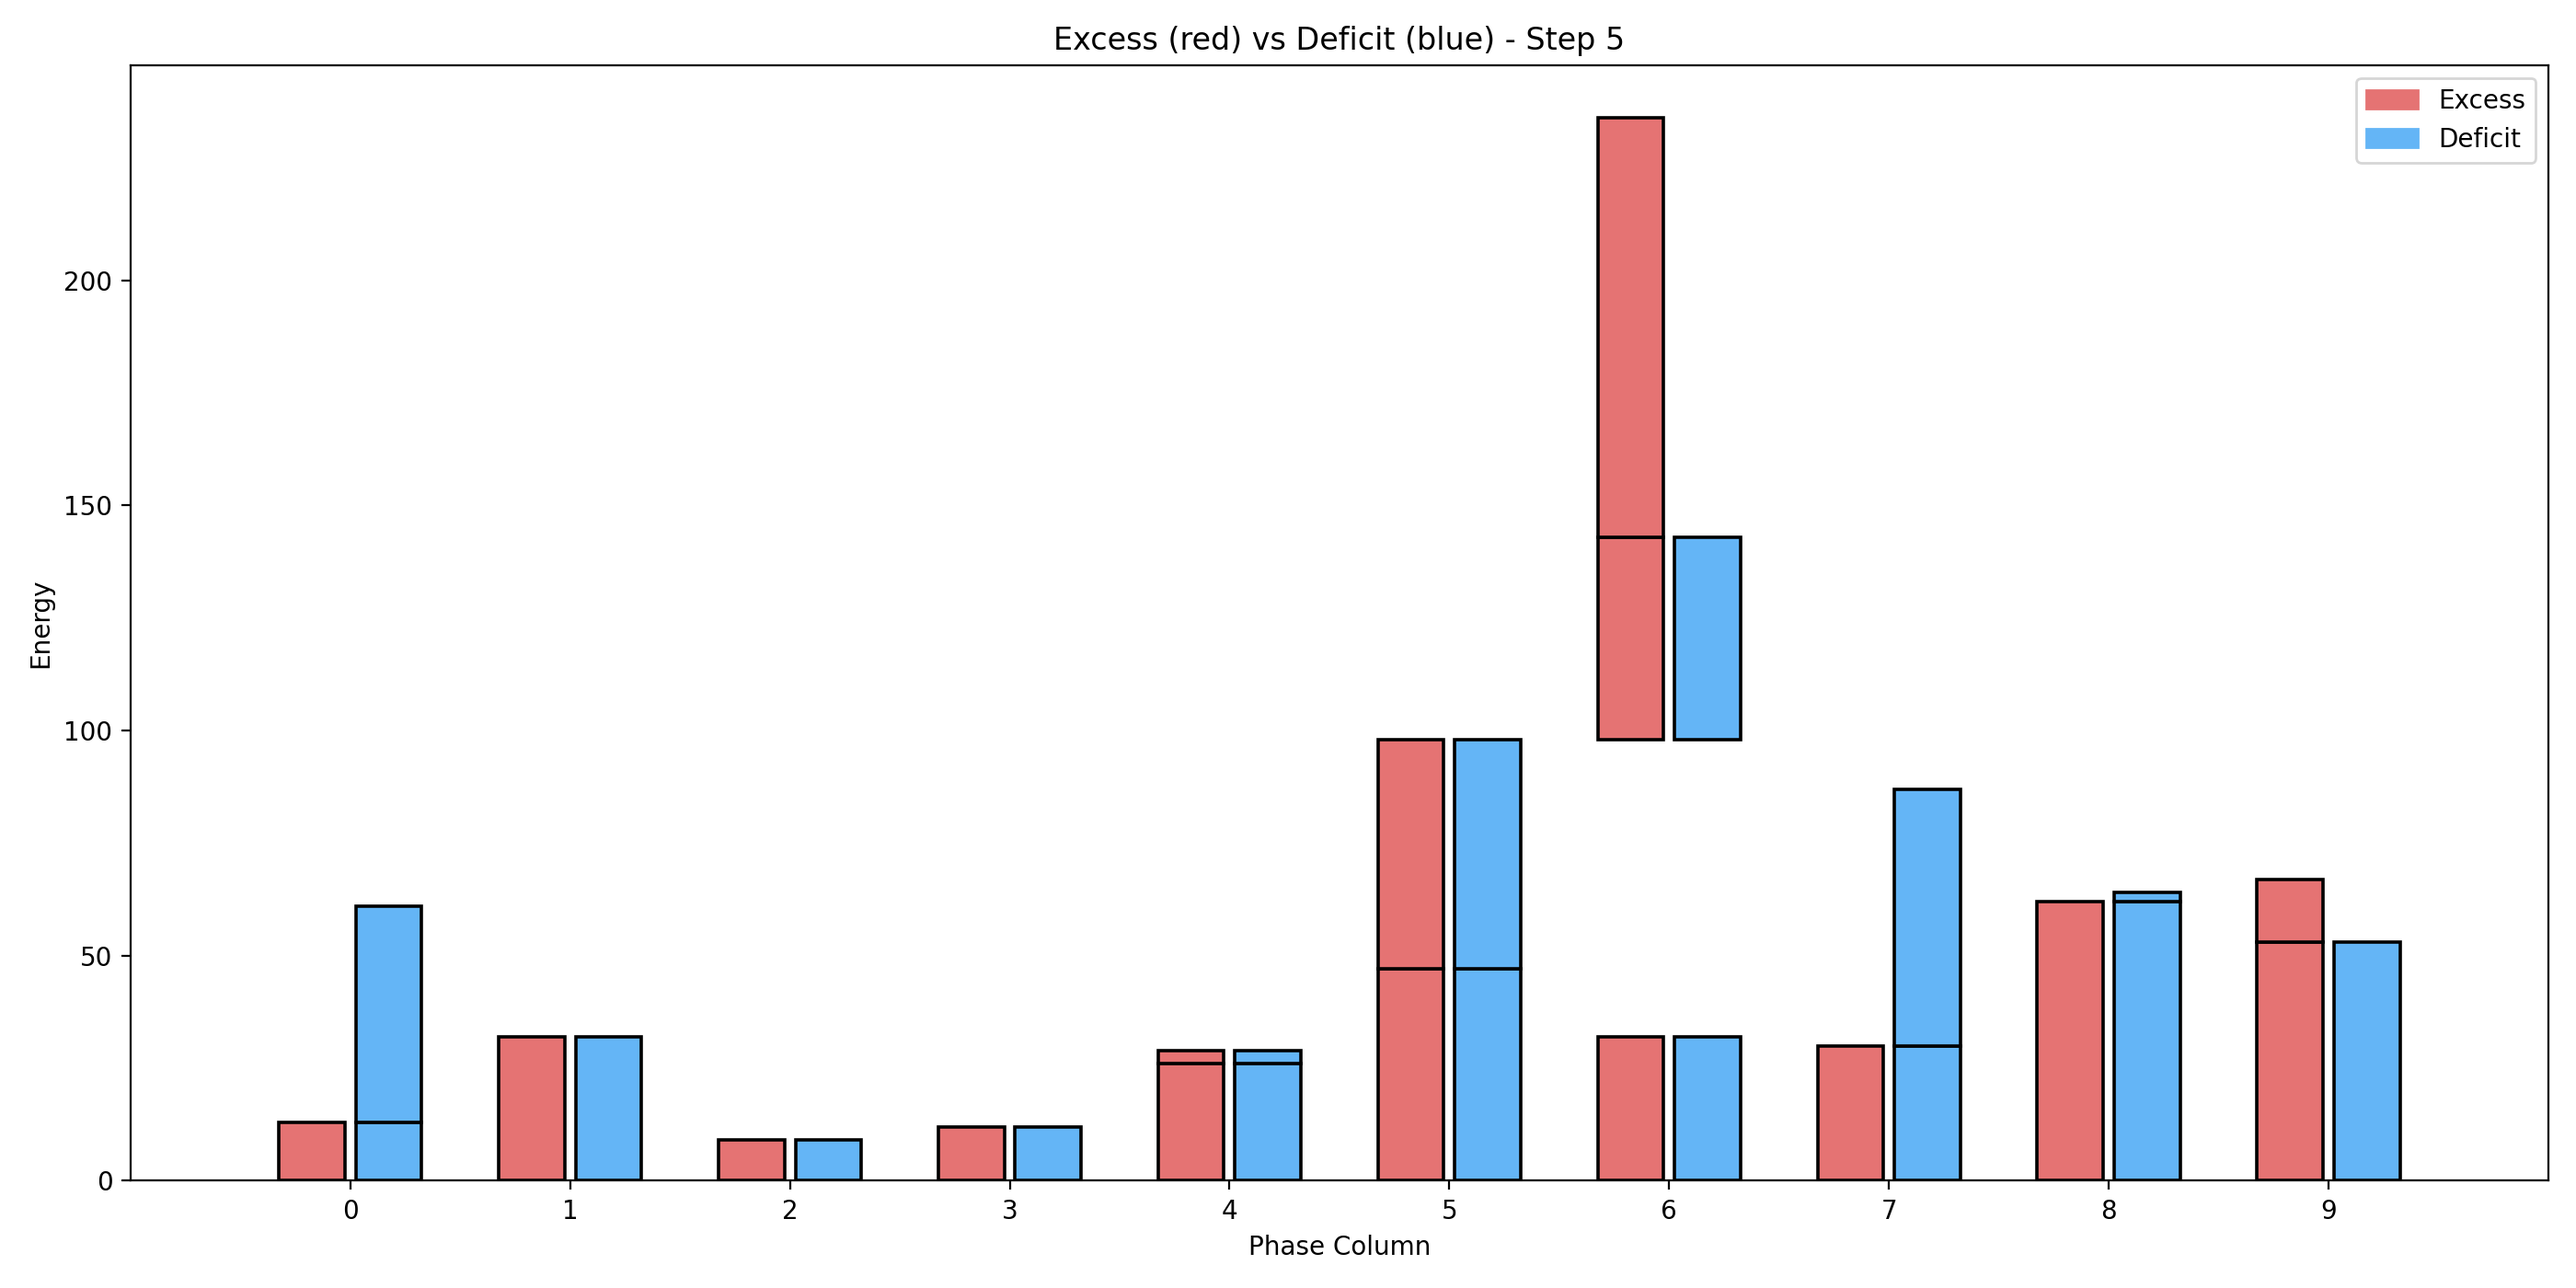
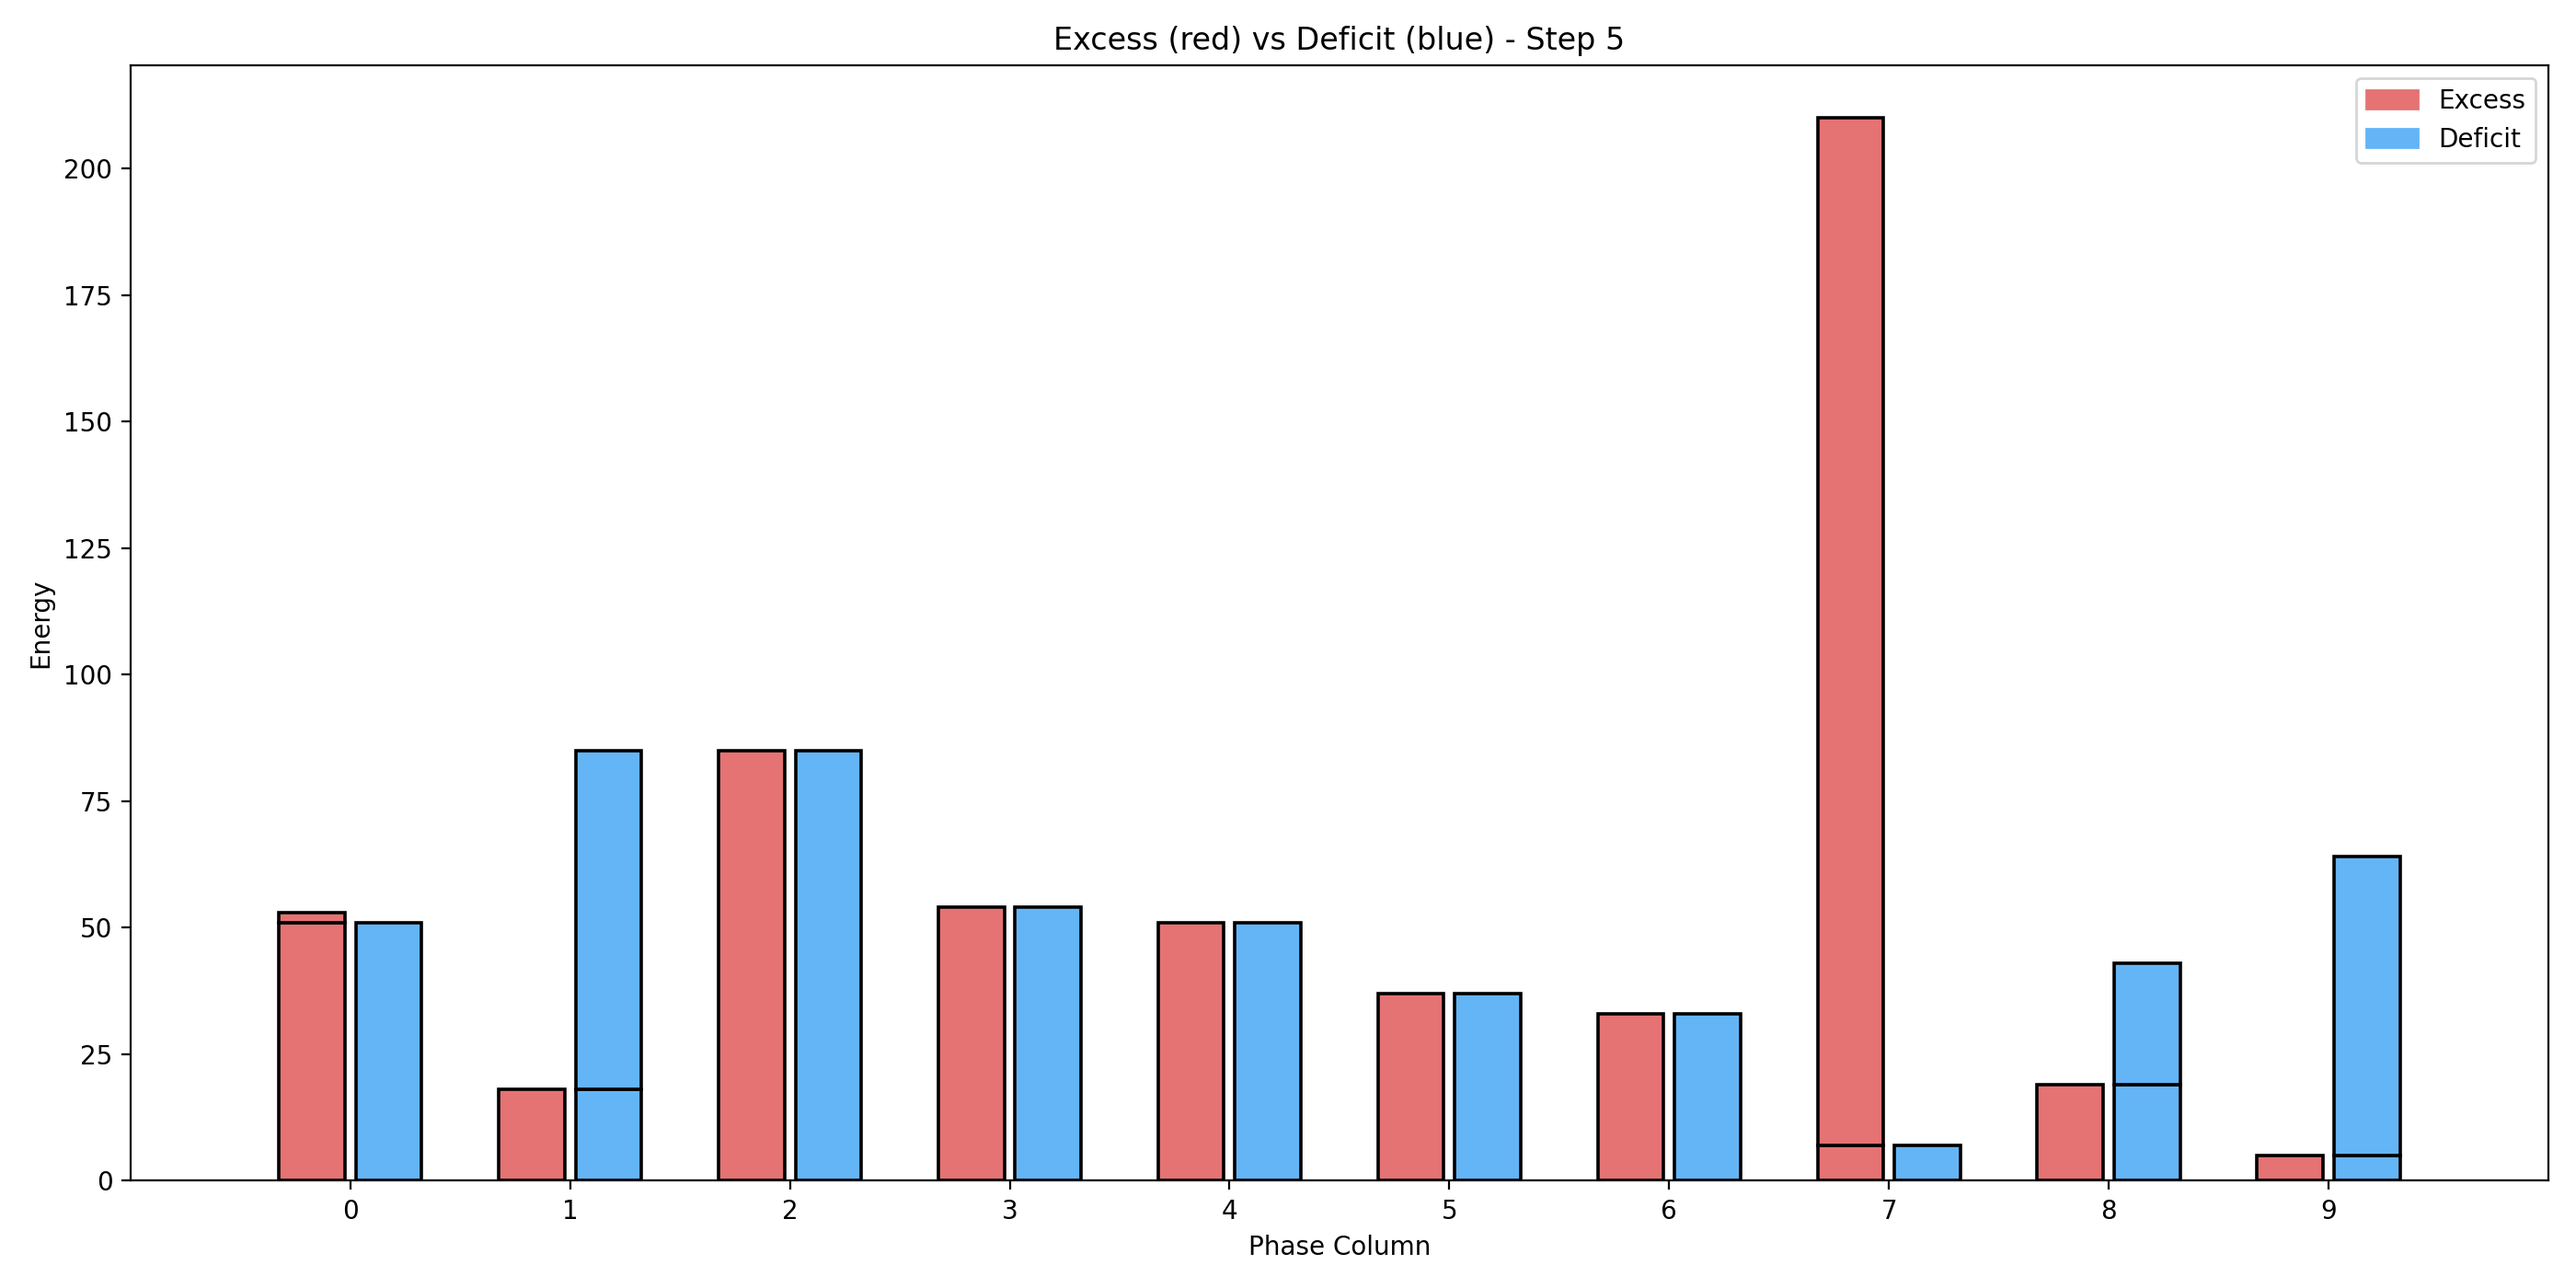
added visuals for each step of new version fusion with pc 15

diff --git a/helper/test.py b/helper/test.py
@@ -45,7 +45,7 @@ def test_version_solo(version_name, worst_case_scenario = False, phase_count = 5
     energy_excess_lists, energy_deficit_lists, start_time_phases = init(worst_case_scenario, 125, phase_count, 1)
     phases_list = module.process_phases(energy_excess_lists[0], energy_deficit_lists[0], start_time_phases)
 
-def visualize_output_each_step(version_name = "new_version_fusion_output_each_step", worst_case_scenario = False, phase_count = 53):
+def visualize_output_each_step(phase_count, version_name = "new_version_fusion_output_each_step", worst_case_scenario = False):
 
     module = import_version(version_name)
     energy_excess_lists, energy_deficit_lists, start_time_phases = init(worst_case_scenario, 125, phase_count, 1)

diff --git a/run.py b/run.py
@@ -29,6 +29,6 @@ if __name__ == '__main__':
 
     #test_version_solo("new_version_fusion", False, 53)
 
-    #visualize_output_each_step()
+    #visualize_output_each_step(phase_count =  15)
 
-    visualize(cfg,"new_version_fusion" , phase=11, max_cols = 100, case = "worst_case")
+    #visualize(cfg,"new_version_fusion" , phase=11, max_cols = 100, case = "worst_case")
